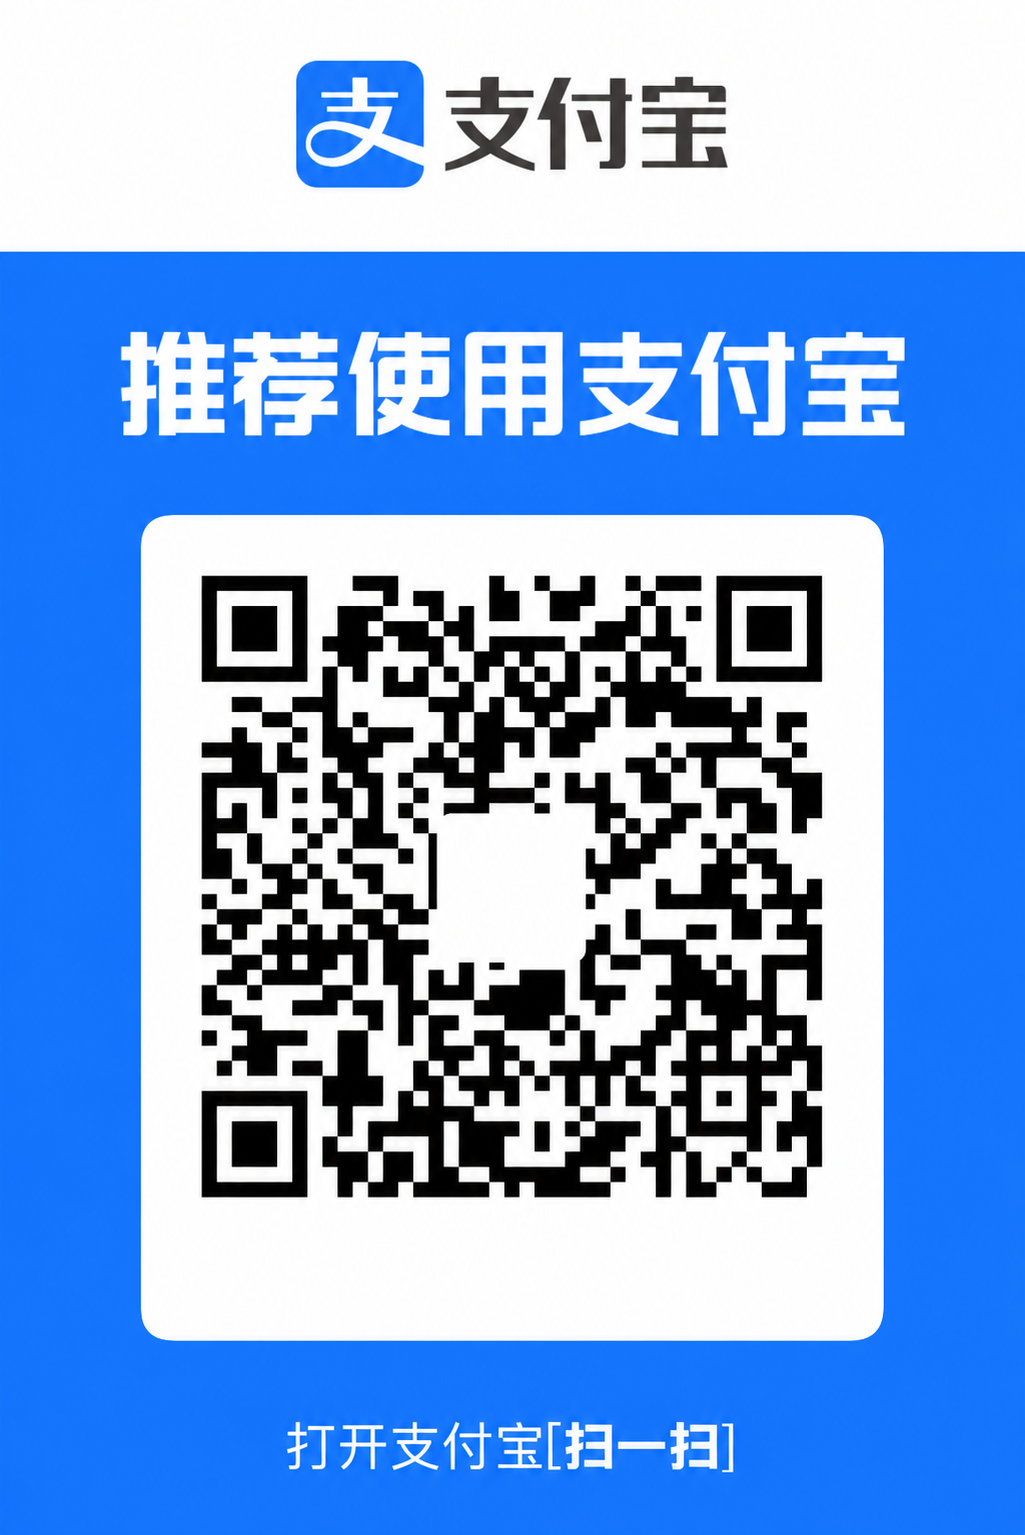
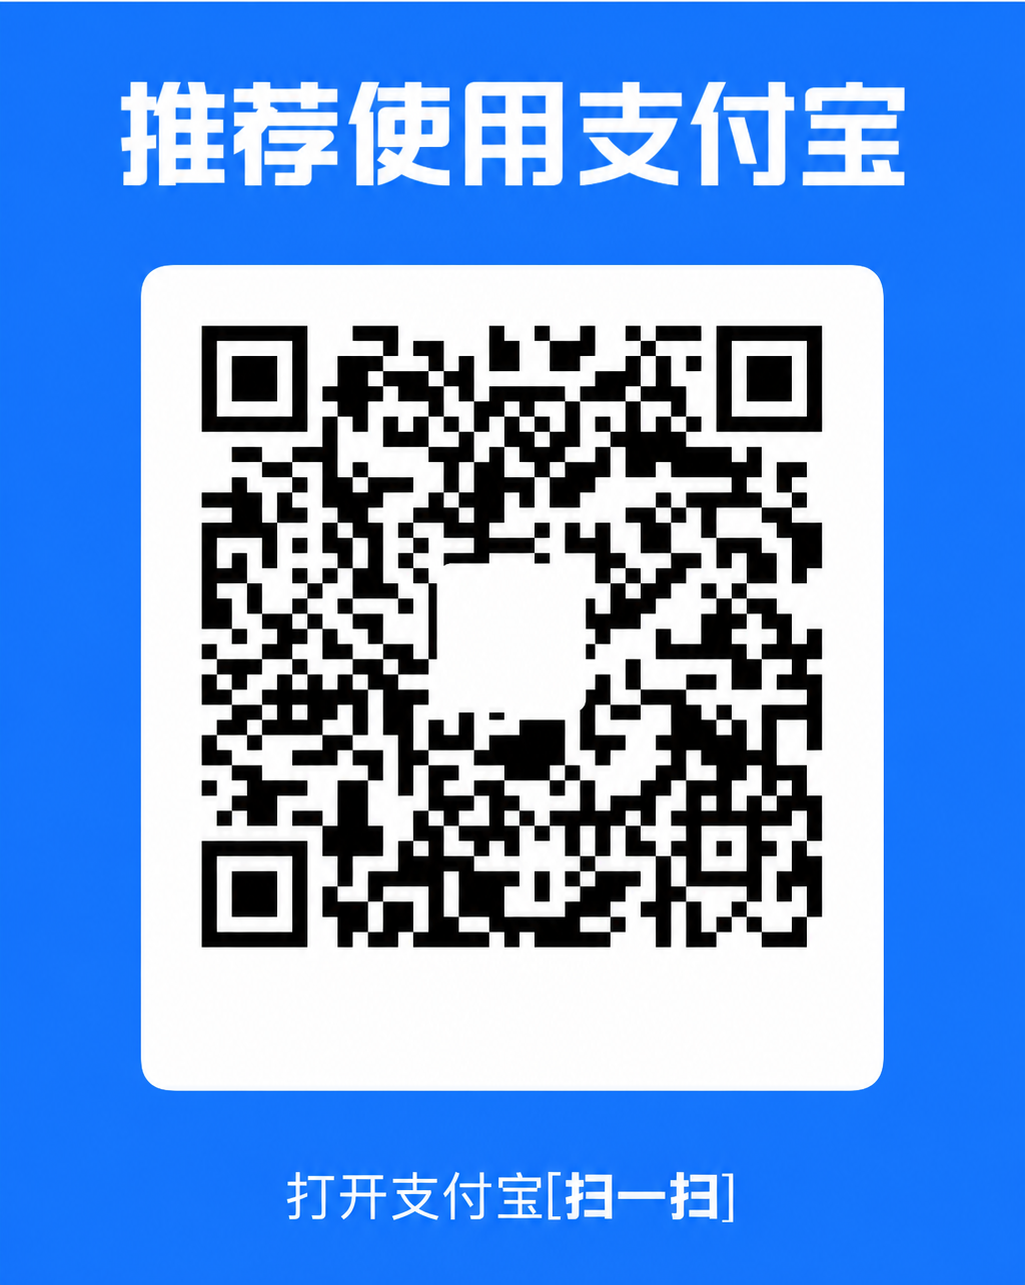
feat: update ip analysis ui

diff --git a/src/app/zh/sponsor/page.tsx b/src/app/zh/sponsor/page.tsx
@@ -40,7 +40,7 @@ const paymentOptions = [
     description: "扫描下方二维码，通过支付宝支持 IP Health。",
     image: "/sponsor/alipay.png",
     width: 1025,
-    height: 1535,
+    height: 1285,
   },
 ];
 

diff --git a/src/app/sponsor/page.tsx b/src/app/sponsor/page.tsx
@@ -26,7 +26,7 @@ const paymentOptions = [
     description: "Scan the QR code below to support IP Health with Alipay.",
     image: "/sponsor/alipay.png",
     width: 1025,
-    height: 1535,
+    height: 1285,
   },
 ];
 
